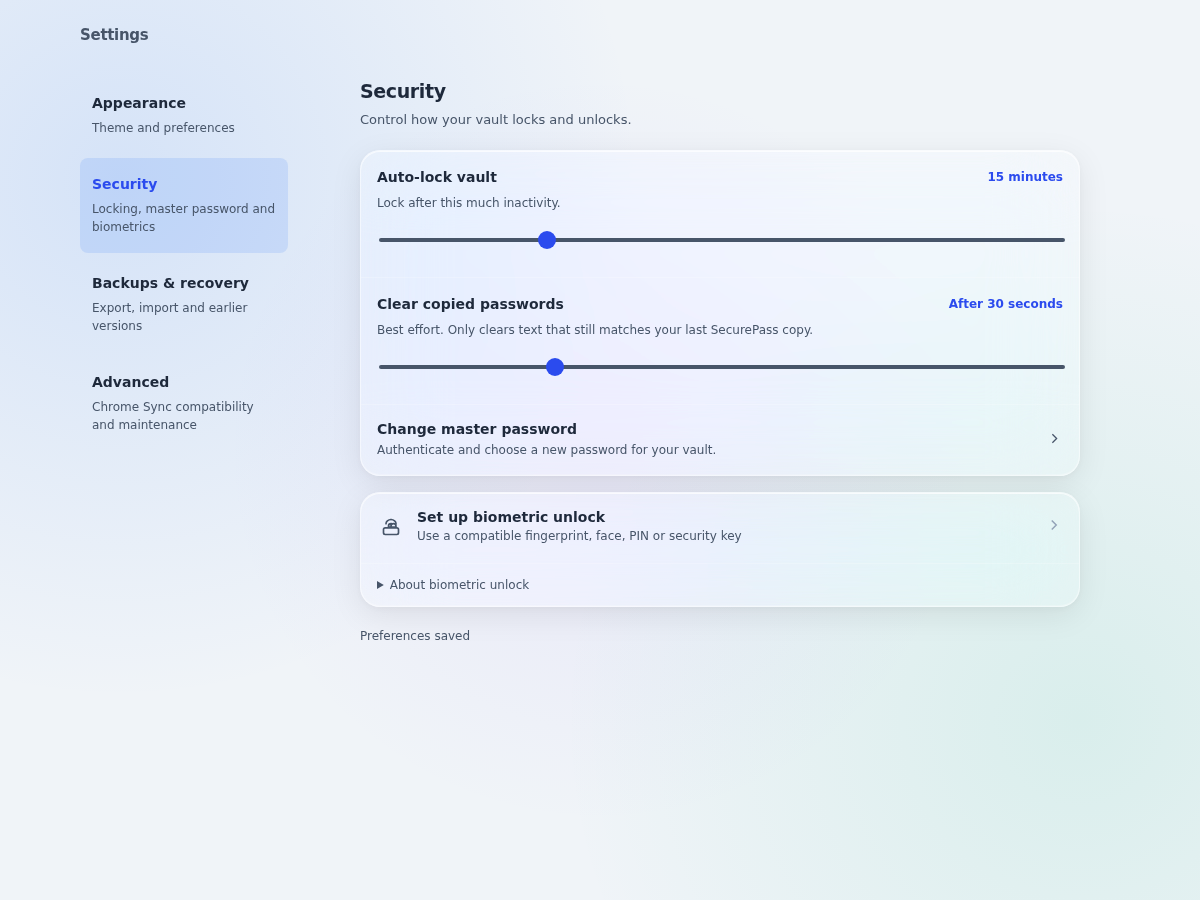
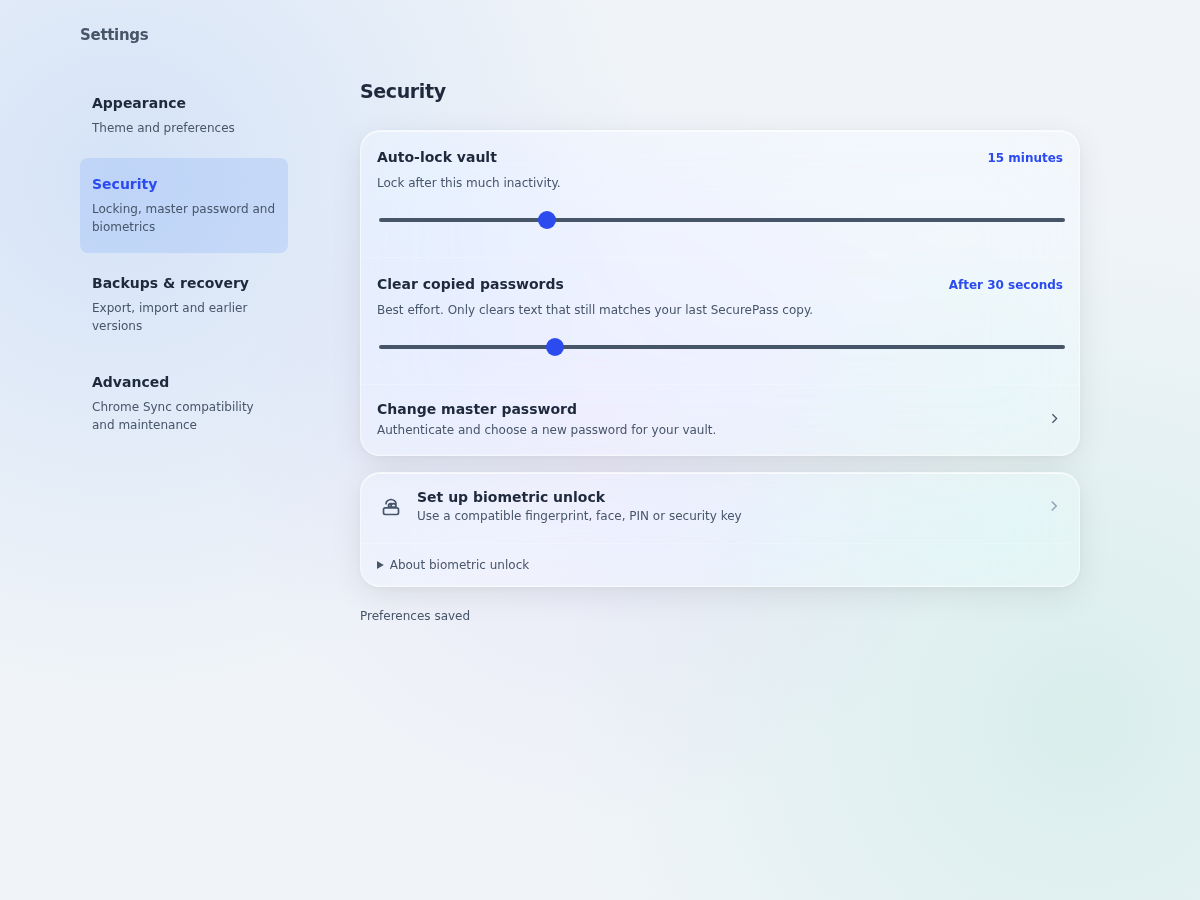
fix: remove detached settings section descriptions

diff --git a/popup/popup.html b/popup/popup.html
@@ -324,7 +324,7 @@
         <div class="settings-scroll-container">
           <div class="settings-content-wrapper">
             <section id="generalSection" class="settings-section" aria-labelledby="appearanceHeading" hidden>
-              <div class="section-header"><h3 id="appearanceHeading" tabindex="-1">Appearance</h3><p>Choose how SecurePass looks.</p></div>
+              <div class="section-header"><h3 id="appearanceHeading" tabindex="-1">Appearance</h3></div>
               <div class="card">
                 <div class="settings-preference theme-row">
                   <span class="row-label">Theme</span>
@@ -370,7 +370,7 @@
               <footer class="settings-about"><span>SecurePass <span class="app-version"></span></span><a href="https://github.com/JoaoAlves05/SecurePass" target="_blank" rel="noopener noreferrer">GitHub</a></footer>
             </section>
             <section id="securitySection" class="settings-section" aria-labelledby="securityHeading" hidden>
-              <div class="section-header"><h3 id="securityHeading" tabindex="-1">Security</h3><p>Control how your vault locks and unlocks.</p></div>
+              <div class="section-header"><h3 id="securityHeading" tabindex="-1">Security</h3></div>
               <div class="card">
                 <div class="settings-preference">
                   <div class="settings-preference-heading"><label for="autoLockRange" class="row-label">Auto-lock vault</label><output id="autoLockLabel" for="autoLockRange" class="settings-value">15 minutes</output></div>
@@ -429,7 +429,7 @@
               </div>
             </section>
             <section id="backupsSection" class="settings-section" aria-labelledby="backupsHeading" hidden>
-              <div class="section-header"><h3 id="backupsHeading" tabindex="-1">Backups &amp; recovery</h3><p>Keep a copy, import a backup or restore an earlier version.</p></div>
+              <div class="section-header"><h3 id="backupsHeading" tabindex="-1">Backups &amp; recovery</h3></div>
               <div id="backupEmptyState" class="settings-empty-state" hidden><p>No vault yet. Create one here, or import a backup below.</p><button id="createLocalVault" class="secondary compact-btn" type="button">Create local vault</button></div>
               <div class="card">
                 <button id="exportVault" disabled class="settings-action" type="button"><span class="settings-action-copy"><span class="settings-action-title">Export backup</span><span class="settings-action-description">Download an encrypted copy with a separate backup password.</span></span><span class="settings-action-arrow"><svg viewBox="0 0 24 24" fill="none" stroke="currentColor" stroke-width="1.8" aria-hidden="true"><path d="m9 6 6 6-6 6" /></svg></span></button>
@@ -441,7 +441,7 @@
               <div id="snapshotList" class="snapshot-list" aria-label="Earlier vault versions"></div>
             </section>
             <section id="advancedSection" class="settings-section" aria-labelledby="advancedHeading" hidden>
-              <div class="section-header"><h3 id="advancedHeading" tabindex="-1">Advanced</h3><p>Compatibility, maintenance and local data.</p></div>
+              <div class="section-header"><h3 id="advancedHeading" tabindex="-1">Advanced</h3></div>
               <div class="settings-group-heading"><h4>Chrome Sync compatibility</h4><p class="row-sub">For existing Chrome Sync installations. Unlock is requested when an operation needs it.</p></div>
               <div class="card legacy-card">
                 <p id="syncStatus" class="settings-status" role="status" aria-live="polite">Checking Sync state…</p>

diff --git a/popup/settings.css b/popup/settings.css
@@ -144,6 +144,7 @@ body:has(.settings-panel[aria-hidden='false']) > .app-container {
 }
 
 .settings-section .section-header {
+  display: none;
   margin: 0 0 4px;
   text-align: left;
 }
@@ -156,7 +157,6 @@ body:has(.settings-panel[aria-hidden='false']) > .app-container {
   letter-spacing: -0.02em;
 }
 
-.settings-section .section-header p,
 .settings-group-heading p {
   margin: 0;
   color: var(--text-muted);
@@ -549,6 +549,7 @@ body:has(.settings-panel[aria-hidden='false']) {
     display: none;
   }
 
+  .management-mode .settings-section .section-header,
   .management-mode .settings-section .section-header h3 {
     display: block;
   }
